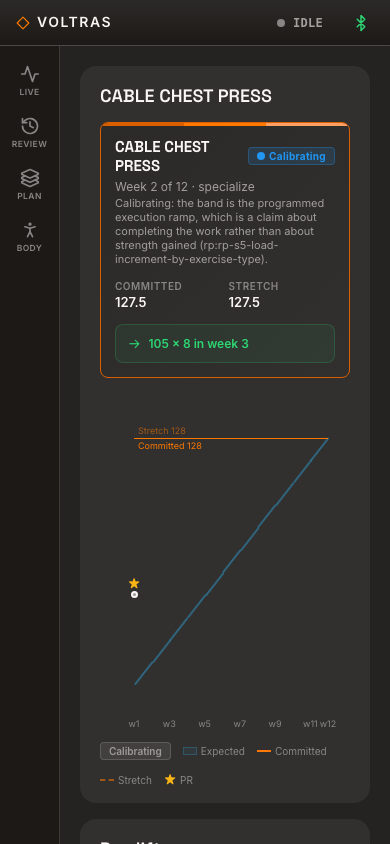
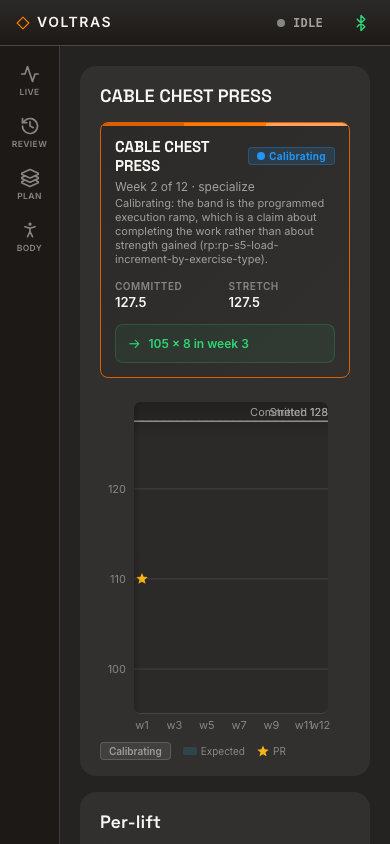
Bump @titan-design/react-ui to 0.17.0 and re-capture #/goals (VW-401)
0.17.0 replaces the goal trajectory chart's hand-rolled geometry with a
d3-backed one: a recessed plane with a lit bottom lip, a labelled value
axis with gridlines, monotone-interpolated band edges and a line-draw
entrance. It also ships the light-mode dataviz palettes.

The chart's new props (bandCurve, bandFade, baseline, animate,
leftShadowSpread) all default to the human-locked values, so GoalsView
needs no prop changes and still passes no motion props.

react-ui gains two runtime dependencies, d3-shape ^3 and d3-scale ^4.
Their ten lock entries (d3-array, d3-color, d3-format, d3-interpolate,
d3-path, d3-scale, d3-shape, d3-time, d3-time-format, internmap) are
written by hand rather than regenerated: npm install on darwin prunes
the linux-only optional subtrees that CI needs. `npm ci` installs the
result clean.

Both #/goals screenshots are regenerated. The capture harness forces
prefers-reduced-motion, so the entrance is disabled outright and the
shots stay byte-identical across runs.

diff --git a/CHANGELOG.md b/CHANGELOG.md
@@ -54,6 +54,14 @@ entry is written from the user's point of view is a review question, not a check
 - The `#/goals` page now stacks to one column on a phone-width screen instead of squeezing
   its four-card grid and 1200px-wide trajectory chart into a viewport neither fits (VW-356).
 
+### Changed
+
+- The goal trajectory chart is drawn on a recessed plane with a lit bottom lip, a labelled
+  value axis and gridlines, and its band edges are interpolated rather than joined
+  straight (`@titan-design/react-ui` 0.17.0, VW-401). A goal whose committed and stretch
+  targets are the same number — every goal still calibrating — currently renders that band
+  as a sub-pixel fill, so the chart reads as empty until the two targets separate.
+
 ### Fixed
 
 - `npm run docs:captures`'s dual-Voltra screenshot no longer 404s partway through (VW-389).
